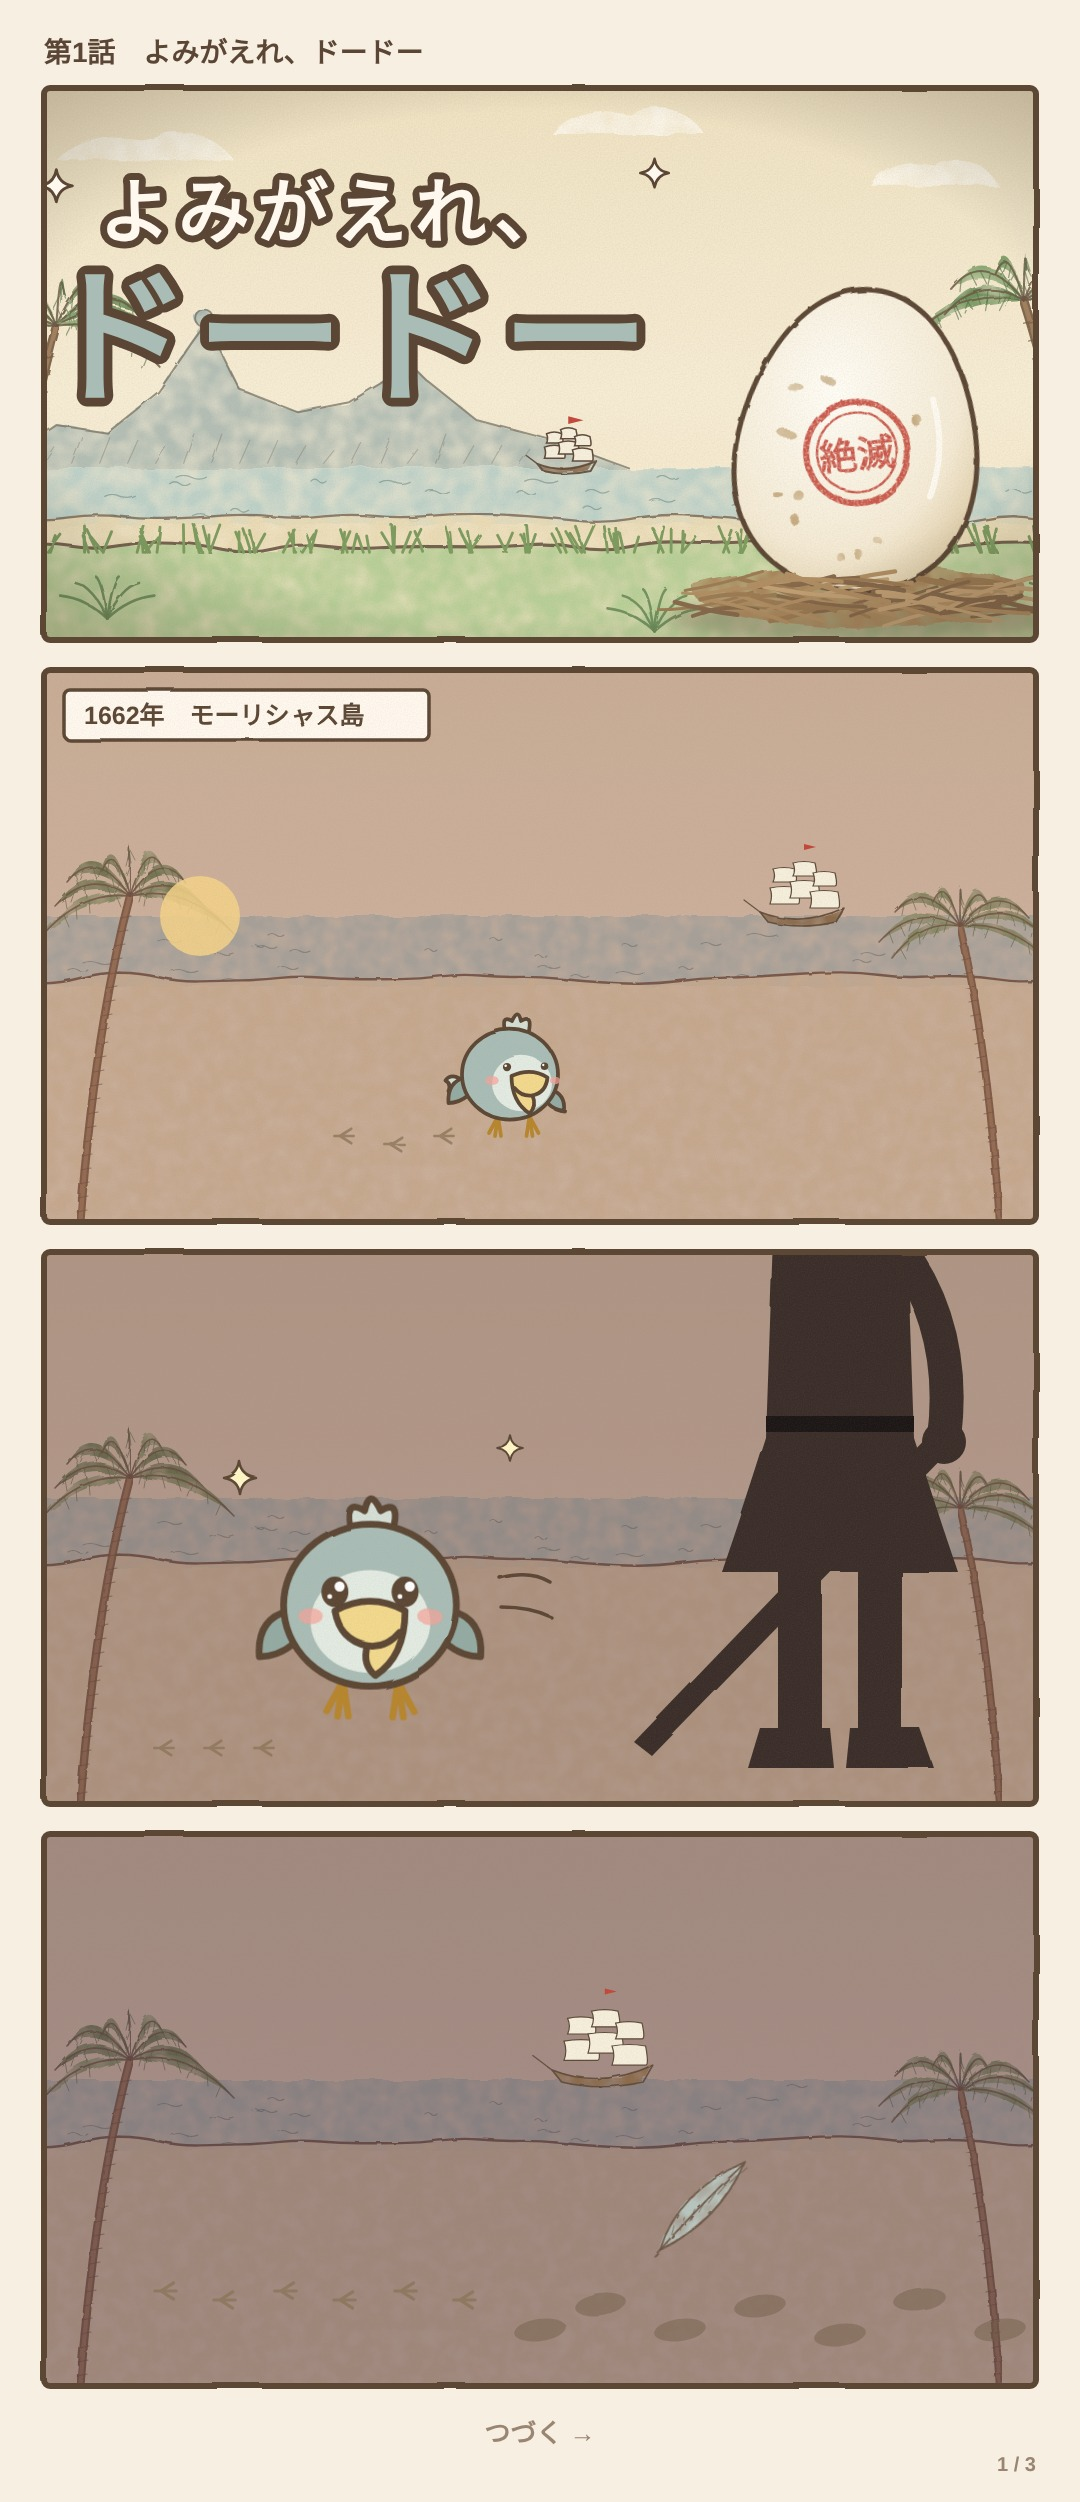
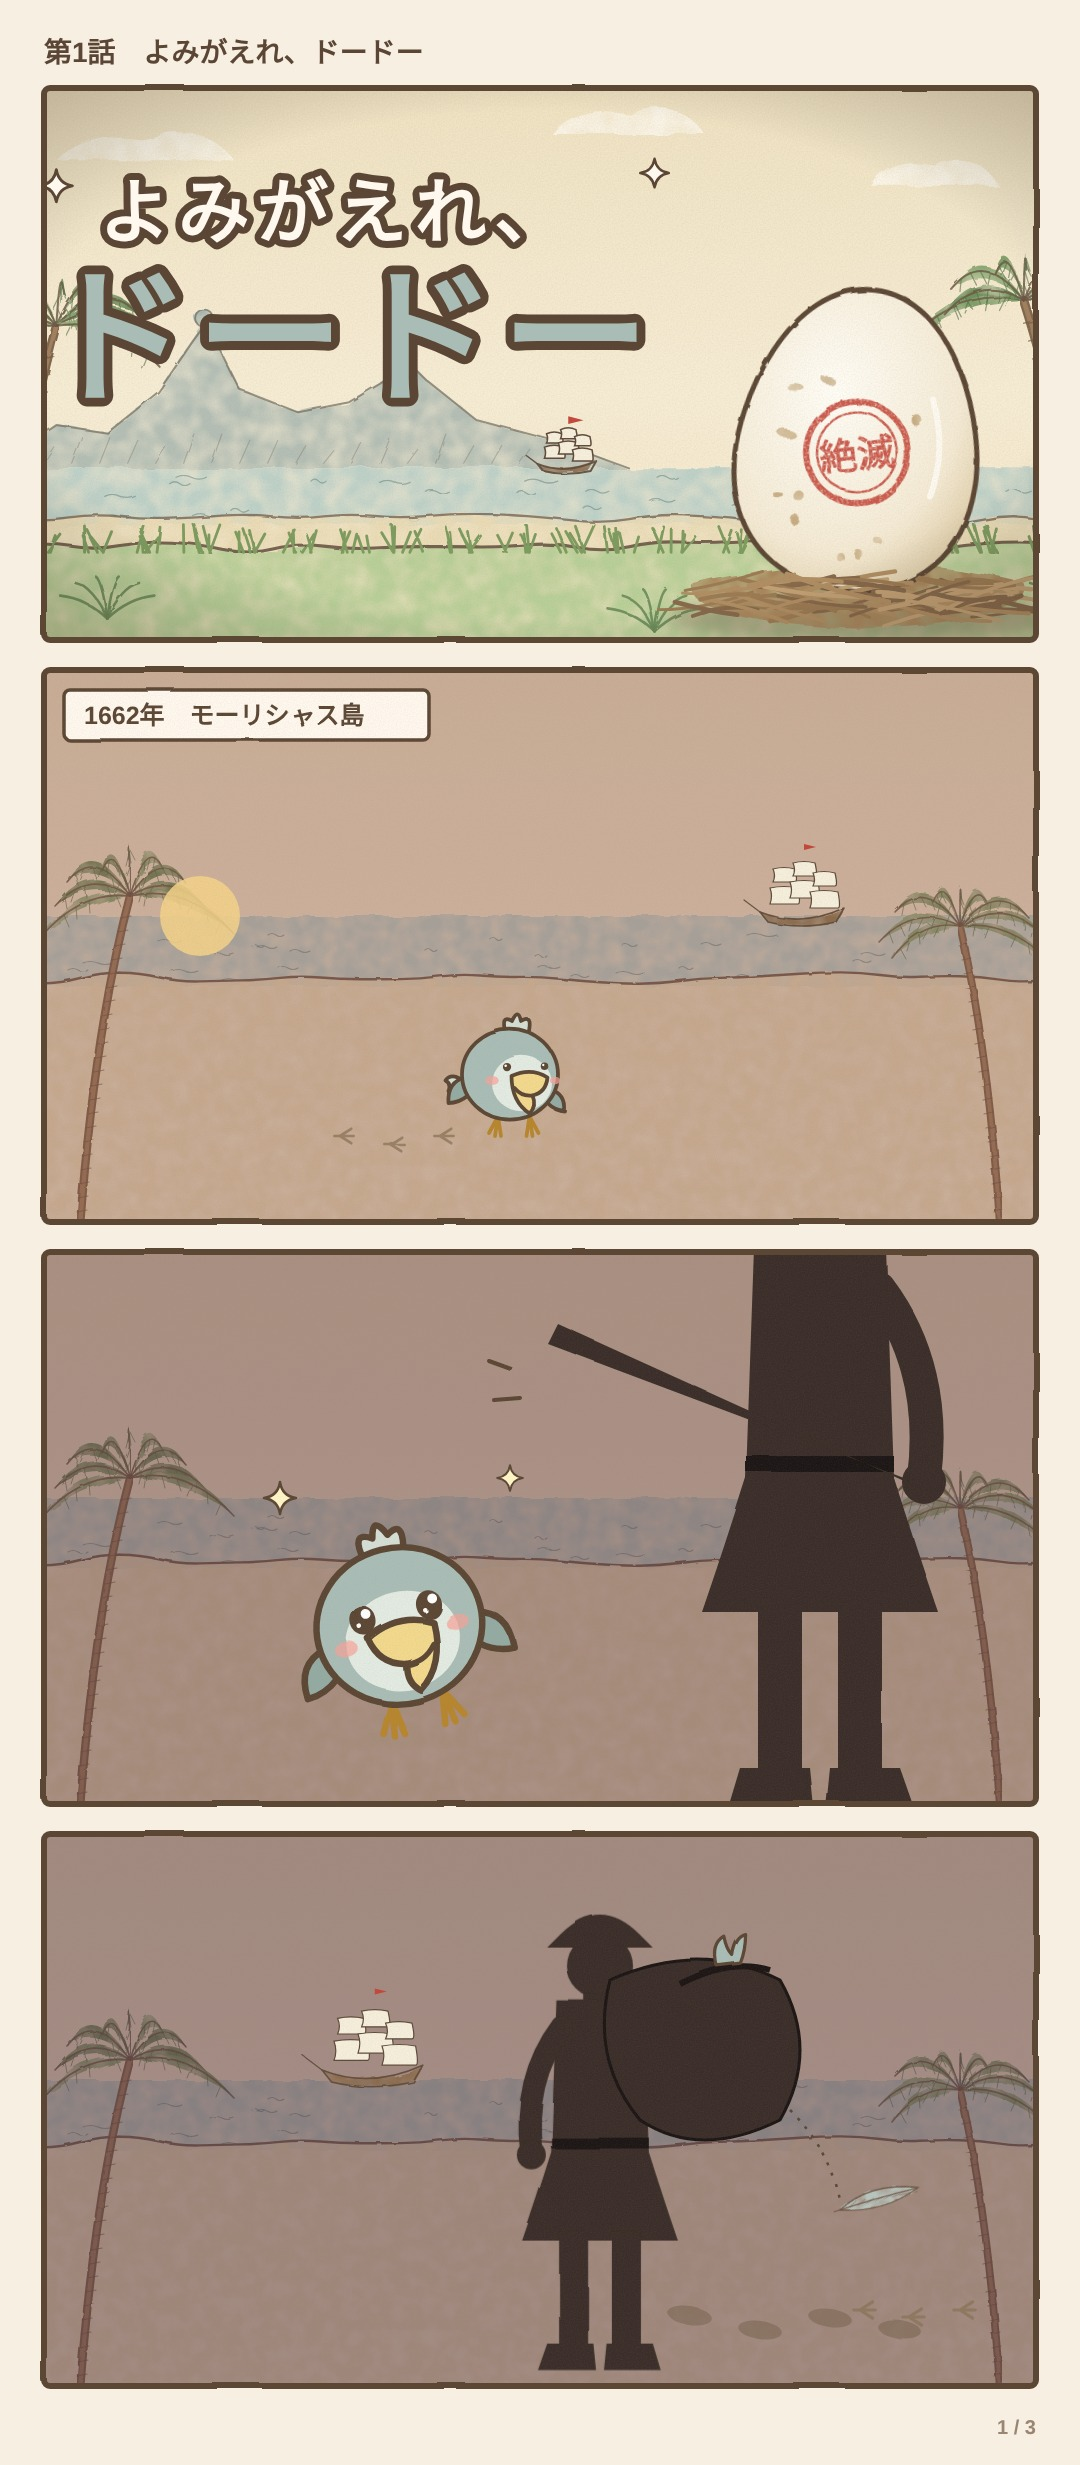
第1話の因果を直し(3〜4コマ目、初登場の大ゴマ、光とたまご)、「つづく」は最後の1枚だけに
Claude-Session: https://claude.ai/code/session_01FpeyD9SzXtbykBKHxhPb4A

diff --git a/episodes/ep01.py b/episodes/ep01.py
@@ -7,6 +7,7 @@ TT=lambda k='n': ch('トト',k)
 def sailor(x,y,s=1):
     c=SIL
     o=f'<g transform="translate({x} {y}) scale({s})" fill="{c}">'
+    o+='<circle cx="0" cy="-612" r="50"/><path d="M-80 -640 L80 -640 L60 -660 Q0 -720 -60 -660Z"/><rect x="-24" y="-570" width="48" height="16"/>'  # 頭と帽子
     o+='<path d="M-66 -560 L66 -560 L74 -330 Q96 -260 118 -196 L-118 -196 Q-96 -260 -74 -330Z"/>'   # 長いコート
     o+='<rect x="-62" y="-210" width="44" height="180"/><rect x="18" y="-210" width="44" height="180"/>'  # 脚
     o+='<path d="M-80 -40 L-10 -40 L-6 0 L-92 0Z"/><path d="M10 -40 L80 -40 L94 0 L6 0Z"/>'  # ブーツ
@@ -42,14 +43,22 @@ P.append(f'<svg viewBox="0 0 1000 560" width="1000" height="560" xmlns="http://w
 u='p2'; bg=envs.island(u)+dusk(u)+f'<circle cx="160" cy="250" r="40" fill="#f6d38a" opacity=".85"/>'+ship(u,760,256,1.0)
 fg=g(turn.three(),470,410,0.75,0,True)+''.join(footprint(x,y,.8,90) for x,y in [(300,470),(350,478),(400,470)])+cap(24,24,'1662年　モーリシャス島')
 P.append(panel(bg,fg,2,u))
-# 3 棒を持った人間の影。トトはキラキラ目で近づく
-u='p3'; bg=envs.island(u)+dusk(u)+f'<rect width="{W}" height="{H}" fill="#3b2a3a" opacity=".18"/>'
-fg=sailor(800,520,1.0)+g(TT('spark'),330,360,1.35)+twinkle(200,230,1)+twinkle(470,200,.8)+''.join(footprint(x,500,.8,90) for x in (120,170,220))
-fg+=f'<path d="M460 330 q30 -8 50 4 M462 360 q30 0 50 10" fill="none" stroke="{O}" stroke-width="3.5" stroke-linecap="round"/>'
+# 3 人間が棒を振り上げる。トトはキラキラ目で見上げる(直前で止める)
+u='p3'; bg=envs.island(u)+dusk(u)+f'<rect width="{W}" height="{H}" fill="#3b2a3a" opacity=".22"/>'
+man=sailor(0,0,1.0).replace('<path d="M96 -340 L118 -326 L-188 -12 L-206 -26Z"/>','<path d="M84 -330 L104 -318 L-262 -484 L-272 -464Z"/>')
+fg=f'<g transform="translate(780 560)">{man}</g>'+g(TT('spark'),360,380,1.3,-14)+twinkle(240,250,1)+twinkle(470,230,.8)
+fg+=f'<path d="M470 120 l-22 -8 M480 150 l-26 2" stroke="{O}" stroke-width="4" stroke-linecap="round"/>'
 P.append(panel(bg,fg,3,u))
-# 4 だれもいない浜。足あとが途切れ、羽根が1枚
-u='p4'; bg=envs.island(u)+dusk(u)+f'<rect width="{W}" height="{H}" fill="#2e2440" opacity=".25"/>'+ship(u,560,252,1.2)
-fg=''.join(footprint(x,y,.9,90) for x,y in [(120,460),(180,470),(240,460),(300,470),(360,460),(420,470)])+''.join(f'<ellipse cx="{x}" cy="{y}" rx="26" ry="11" transform="rotate(-8 {x} {y})" fill="#6f5a46" opacity=".45"/>' for x,y in [(960,500),(880,470),(800,505),(720,476),(640,500),(560,474),(500,500)])+feather(u,620,420,.9,-10)
+# 4 人間が袋をかついで船へ戻る。袋の口からトトの冠がのぞく。羽根が1枚落ちる。トトの足あとはそこで途切れる
+u='p4'; bg=envs.island(u)+dusk(u)+f'<rect width="{W}" height="{H}" fill="#2e2440" opacity=".25"/>'+ship(u,330,252,1.2)
+fg=''.join(footprint(x,y,.9,90) for x,y in [(820,480),(870,488),(920,480)])
+fg+=''.join(f'<ellipse cx="{x}" cy="{y}" rx="22" ry="9" transform="rotate(8 {x} {y})" fill="#6f5a46" opacity=".45"/>' for x,y in [(860,500),(790,488),(720,500),(650,486)])
+man=sailor(0,0,1.0).replace('<path d="M96 -340 L118 -326 L-188 -12 L-206 -26Z"/>','')
+fg+=f'<g transform="translate(560 540) scale(-.66 .66)">{man}</g>'
+# 肩にかついだ袋と、袋の口からのぞく冠
+fg+=f'<path d="M570 150 Q660 110 740 150 Q780 220 740 290 Q660 330 600 290 Q550 230 570 150Z" fill="{SIL}" stroke="#1c1512" stroke-width="3"/><path d="M640 154 Q690 128 730 140" stroke="#1c1512" stroke-width="6" fill="none"/>'
+fg+=f'<g transform="translate(690 128) scale(1.3)"><path d="M-10 6 Q-14 -10 -4 -16 Q-2 -6 2 -2 Q4 -16 12 -18 Q12 -6 8 4Z" fill="#a9bdb6" stroke="{O}" stroke-width="2.5" stroke-linejoin="round"/></g>'
+fg+=feather(u,800,380,.6,20)+f'<path d="M750 280 Q790 320 800 370" fill="none" stroke="{O}" stroke-width="2.5" stroke-dasharray="3 8"/>'
 P.append(panel(bg,fg,4,u))
 # 5 暗いコマ。人間の手の影が、ページに「絶滅」のハンコを押す
 u='p5'; bg=f'<rect width="{W}" height="{H}" fill="#241e1b"/><radialGradient id="lp{u}" cx=".45" cy=".6" r=".55"><stop offset="0" stop-color="#e9d9b0" stop-opacity=".55"/><stop offset="1" stop-color="#241e1b" stop-opacity="0"/></radialGradient><rect width="{W}" height="{H}" fill="url(#lp{u})"/>'
@@ -68,21 +77,23 @@ P.append(panel(bg,fg,5,u))
 u='p6'; bg=f'<rect width="{W}" height="{H}" fill="#0c0b10"/>'
 fg=f'<path d="M500 -10 L500 380" stroke="#fff3c4" stroke-width="12" stroke-linecap="round" opacity=".35"/><path d="M500 -10 L500 380" stroke="#fffbe8" stroke-width="3.5" stroke-linecap="round"/><circle cx="500" cy="390" r="26" fill="#fff6cf" opacity=".5"/>'+twinkle(500,390,2.2)
 P.append(panel(bg,fg,6,u))
-# 7 約5億年前。草も木もない岩の浜に、ハンコつきのたまご
+# 7 約5億年前。岩の浜のたまごに、ひびが走る
 u='p7'; bg=barren(u)
-fg=obj(u,'egg',560,380,0.85,6)+f'<ellipse cx="560" cy="486" rx="90" ry="12" fill="#4a3f36" opacity=".35"/>'+cap(24,24,'約5億年前')+wind(120,140,3,140)
+crk=f'<path d="M-60 -20 L-30 -34 L-8 -10 L20 -36 L50 -14" fill="none" stroke="{O}" stroke-width="5" stroke-linejoin="round"/>'
+fg=obj(u,'egg',560,370,0.9,6).replace('</g>',crk+'</g>',1)+f'<ellipse cx="560" cy="484" rx="90" ry="12" fill="#4a3f36" opacity=".35"/>'+cap(24,24,'約5億年前')
+fg+=f'<path d="M560 0 L560 250" stroke="#fff3c4" stroke-width="10" stroke-linecap="round" opacity=".45"/><path d="M560 0 L560 250" stroke="#fffbe8" stroke-width="3" stroke-linecap="round"/>'+twinkle(560,256,1.4)
+fg+=''.join(f'<path d="M{x} {y} q{d*10} -6 {d*16} 0" fill="none" stroke="{O}" stroke-width="3.5" stroke-linecap="round"/>' for x,y,d in [(440,280,-1),(430,310,-1),(680,270,1),(690,300,1)])
 P.append(panel(bg,fg,7,u))
-# 8 アップ。ヒビが「絶滅」をまっぷたつに
-u='p8'; P.append(panel(cream(),burst(500,280,52,250,700)+obj_crack(u,'egg'),8,u))
-# 9 殻をのせたトトが、ぽかんと顔を出す
+# 8 殻を破って、トトが飛び出す(初登場の大ゴマ)
+u='p8'; fg=burst(500,300,56,200,700)+g(TT('blank'),500,330,2.3)
+fg+=obj_open(u,'egg',500,470,1.5)+obj_cap(u,'egg',470,110,0.75,-24)
+fg+=''.join(f'<path transform="translate({x} {y}) rotate({r})" d="M0 0 L22 -8 L16 14Z" fill="#f8f0de" stroke="{O}" stroke-width="3" stroke-linejoin="round"/>' for x,y,r in [(200,150,20),(820,140,-30),(160,330,60),(850,330,10),(300,80,-10),(700,70,40)])
+fg+=f'<g stroke="{O}" stroke-width="4" stroke-linecap="round" fill="none"><path d="M380 170 l-14 -26"/><path d="M620 170 l14 -26"/></g>'
+P.append(panel(cream(),fg,8,u))
+# 9 寄りで。あたりを見回す。岩と風だけ
 u='p9'; bg=barren(u)
-fg=g(TT('blank'),500,300,1.45)+obj_open(u,'egg',500,400,1.05)+obj_cap(u,'egg',500,300-110*1.45+30,0.5,-12)
-fg+=f'<g stroke="{O}" stroke-width="3" stroke-linecap="round" fill="none"><path d="M450 120 l-8 -18"/><path d="M500 106 l0 -20"/><path d="M550 120 l8 -18"/></g>'
+fg=g(turn.three(),420,360,1.15)+qmark(560,190,1.1)+wind(640,150,3,180)+wind(60,120,2,140)
 P.append(panel(bg,fg,9,u))
-# 10 大きく引いた絵。どこまでも岩と風だけ、トトは豆粒
-u='p10'; bg=barren(u)
-fg=f'<ellipse cx="520" cy="468" rx="26" ry="6" fill="#4a3f36" opacity=".35"/>'+g(turn.front(),520,430,0.34)+wind(140,120,3,180)+wind(640,200,2,160)+f'<path d="M505 395 q-4 -10 6 -14" fill="none" stroke="{O}" stroke-width="2"/>'
-P.append(panel(bg,fg,10,u))
 # 11 潮だまりをのぞく。見たことのない形の影たち。キラキラ目
 u='p11'; bg=barren(u)
 pool='M380 380 Q600 330 900 370 Q960 450 860 520 Q620 560 420 520 Q330 460 380 380Z'
@@ -90,6 +101,12 @@ fg=wash(u,pool,'#7fa6a6')+pen(u,pool,3)
 fg+=f'<clipPath id="pl{u}"><path d="{pool}"/></clipPath><g clip-path="url(#pl{u})" opacity=".85">'+g(sil(ch('ハルル')),520,470,.6)+g(sil(ch('オパ')),760,440,.55,0,True)+''.join(f'<path transform="translate({x} {y}) scale(.8)" d="M0 -20 Q22 -18 24 0 Q22 22 0 26 Q-22 22 -24 0 Q-22 -18 0 -20Z" fill="{SIL}"/>' for x,y in [(640,500),(800,480),(460,420)])+'</g>'
 fg+=g(TT('spark'),230,320,1.5,14)+twinkle(400,180,1)+twinkle(120,160,.8)
 P.append(panel(bg,fg,11,u))
+# 11b 潮だまりから海へ、そのまま飛び込む
+u='p11b'; bg=sky(u,'#cfd3c6','#e8e6da')+sea(u,300,560,'#8fa6a2',81)+wash(u,'M0 330 Q160 300 340 340 L380 560 L0 560Z','#9b9183')+pen(u,'M0 330 Q160 300 340 340 L380 560',2.6)
+fg=g(TT('happy'),560,230,1.2,40)+f'<path d="M300 300 Q420 120 520 200" fill="none" stroke="{O}" stroke-width="4" stroke-dasharray="2 14" stroke-linecap="round"/>'
+fg+=''.join(f'<path d="M{x} 330 q{d*12} -40 {d*34} -52" fill="none" stroke="#e8f2f4" stroke-width="6" stroke-linecap="round"/>' for x,d in [(600,-1),(630,-1),(660,1),(690,1)])
+fg+=f'<ellipse cx="645" cy="330" rx="70" ry="12" fill="none" stroke="#e8f2f4" stroke-width="4"/>'
+P.append(panel(bg,fg,'11b',u))
 # 12 そのまま水に飛びこんで、しずむ。泡の向こうに大きな2つの目
 u='p12'; bg=sky(u,'#3f6f74','#16303a')
 maro=sil(ch('マロ'))

diff --git a/kit/sheets.py b/kit/sheets.py
@@ -12,7 +12,7 @@ async def render(name,P,title,memo,logo_head=True,per=4):
         b=await p.chromium.launch(); pg=await b.new_page(viewport={'width':1080,'height':800}); out=[]
         for i,pp in enumerate(pages,1):
             head=((HEAD if logo_head else '')+f'<div style="padding:{"10" if logo_head else "30"}px 44px 6px;font-size:28px;font-weight:900">{title}</div>') if i==1 else ''
-            foot=(f'<div style="margin:24px 40px 14px;padding:18px 24px;background:#fff8ee;border-radius:18px;font-size:22px;line-height:1.7"><b>図鑑メモ</b><br>{memo}</div>' if i==tot else '<div style="text-align:center;padding:22px 0 4px;font-size:26px;font-weight:900;color:#9a8572">つづく →</div>')
+            foot=(f'<div style="margin:24px 40px 14px;padding:18px 24px;background:#fff8ee;border-radius:18px;font-size:22px;line-height:1.7"><b>図鑑メモ</b><br>{memo}</div><div style="text-align:center;padding:6px 0 4px;font-size:26px;font-weight:900;color:#9a8572">つづく</div>' if i==tot else '<div style="height:26px"></div>')
             open('/tmp/sh.html','w').write(page(pp,head,foot,i,tot))
             await pg.goto('file:///tmp/sh.html'); await pg.wait_for_timeout(2200)
             f=f'out/{name}_{i}.png'; await pg.screenshot(path=f,full_page=True); out.append(f)

diff --git a/canon/settei_note.md b/canon/settei_note.md
@@ -16,7 +16,7 @@
 ## 話の記録
 | 話 | タイトル | 枚数 | 中身 | 張った伏線 |
 | --- | --- | --- | --- | --- |
-| 1 | よみがえれ、ドードー | 4コマ×3 | 1662年、トトが人間の影に自分から近づき、足あとが途切れる。人間の手の影がページに「絶滅」のハンコを押す。光が落ち、約5億年前の岩の浜でたまごから目覚める。潮だまりに知らない影。水に飛び込み、沈む先に大きな2つの目 | ハンコを押す手(初登場) / 光を落としたのは誰か / トトだけがよみがえった |
+| 1 | よみがえれ、ドードー | 4コマ×3 | 1662年、トトは棒を振り上げる船乗りの影をキラキラ目で見上げる。船乗りはトトの冠がのぞく袋をかついで船へ戻り、羽根が落ち、トトの足あとはそこで途切れる。人間の手の影がページに「絶滅」のハンコを押す。光が落ち、約5億年前の岩の浜でたまごから目覚める。潮だまりに知らない影。水に飛び込み、沈む先に大きな2つの目 | ハンコを押す手(初登場) / 光を落としたのは誰か / トトだけがよみがえった |
 | 2 | うみのなかの目 | 4コマ×2 | 息を止めて沈むトトを、マロがつかんで水の外へ放る。トトは怖がらず近づく。マロは三葉虫を見せびらかし、自分で食べる。夜、眠るトトを水の中から2つの目が見ている | マロは助けたのか、食べられないから捨てたのか(はっきりさせない) / マロの空腹 |
 
 ## キャラの状態

diff --git a/CLAUDE.md b/CLAUDE.md
@@ -15,7 +15,12 @@
 
 ## 作り方
 - 部品は `kit/`。各話は `episodes/epNN.py` に書き、リポジトリの直下から `python3 episodes/epNN.py` で `out/` にPNGができる(Playwright と Zen Maru Gothic を使う)
-- 漫画は描いたあと、必ず3周「見直し→描き直し」をする。毎周、コマごとに「読み手に伝わるか、絵として弱いところはどこか」を書き出し、直してから描き直す。3周目で問題がなくなるまで出さない
+- 漫画は描いたあと、必ず3周「見直し→描き直し」をする。見るのは絵の出来より、話の因果が伝わるか:
+  - コマとコマのあいだで「何が起きたか」が、初めて読む人に分かるか(分からなければ、原因か結果を1コマで見せる)
+  - 新しいキャラの初登場や山場は、大ゴマのアップで見せる。ページの最後に置いて、めくった先で効かせる
+  - 大事な瞬間を引きの絵で弱くしていないか
+  - 毎周、コマごとに問題を書き出し、直してから描き直す。3周目で問題がなくなるまで出さない
+- 「つづく」は、その日の投稿の最後の1枚にだけ入れる。途中の枚には入れない
 - 出来た絵は、JPEG(5MB未満)にして `episodes/pages/` に置く
 - キャラデザの元データは `art/design_canvas/`(Claude Design のキャンバスと同じもの)
 
